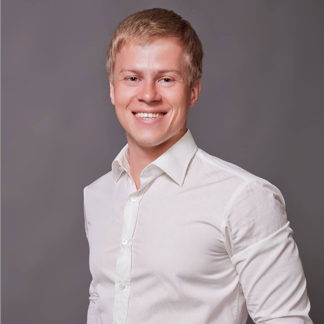
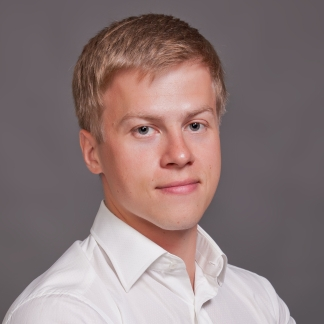
27.11.2017 nodeland.github.io

diff --git a/index.html b/index.html
@@ -332,35 +332,105 @@
 									<h5 class="team__name">Oleg Pensky</h5>
 									<p class="team__position">Chief scientific officer</p>
 								</div>
-								<div class="carousel-element">
-									<div class="carousel-element__photo">
+								<!-- <div class="carousel-element">
+									<div class="carousel-element__photo photo4">
 										<div class="team__social">
-											<a href="#" class="team__social_facebook"><i class="fa fa-facebook" aria-hidden="true"></i></a>
+											<a href="https://www.facebook.com/dmitriokulov" class="team__social_facebook" target="_blank"><i class="fa fa-facebook" aria-hidden="true"></i></a>
 											<a href="#" class="team__social_linkedin "><i class="fa fa-linkedin-square" aria-hidden="true"></i></a>
 										</div>
 									</div>
-									<h5 class="team__name">Daniil Morozov</h5>
-									<p class="team__position">Co-founder</p>
+									<h5 class="team__name">Dmitry Okulov</h5>
+									<p class="team__position">Chief technical officer</p>
+								</div> -->
+								<div class="carousel-element">
+									<div class="carousel-element__photo photo4">
+										<div class="team__social">
+											<a href="https://www.facebook.com/profile.php?id=100002008987607" class="team__social_facebook"  target="_blank"><i class="fa fa-facebook" aria-hidden="true"></i></a>
+											<a href="#" class="team__social_linkedin "><i class="fa fa-linkedin-square" aria-hidden="true"></i></a>
+										</div>
+									</div>
+									<h5 class="team__name">Irina Kotova</h5>
+									<p class="team__position">Financial planning and accounting expert</p>
 								</div>
 								<div class="carousel-element">
-									<div class="carousel-element__photo">
+									<div class="carousel-element__photo photo5">
 										<div class="team__social">
-											<a href="#" class="team__social_facebook"><i class="fa fa-facebook" aria-hidden="true"></i></a>
+											<a href="https://www.facebook.com/denis.konogorov.3" class="team__social_facebook" target="_blank"><i class="fa fa-facebook" aria-hidden="true"></i></a>
 											<a href="#" class="team__social_linkedin "><i class="fa fa-linkedin-square" aria-hidden="true"></i></a>
 										</div>
 									</div>
-									<h5 class="team__name">Daniil Morozov</h5>
-									<p class="team__position">Co-founder</p>
+									<h5 class="team__name">Denis Konogorov</h5>
+									<p class="team__position">Investments expert</p>
 								</div>
 								<div class="carousel-element">
-									<div class="carousel-element__photo">
+									<div class="carousel-element__photo photo6">
 										<div class="team__social">
-											<a href="#" class="team__social_facebook"><i class="fa fa-facebook" aria-hidden="true"></i></a>
-											<a href="#" class="team__social_linkedin "><i class="fa fa-linkedin-square" aria-hidden="true"></i></a>
+											<a href="https://www.facebook.com/profile.php?id=100010785395359" class="team__social_facebook" target="_blank"><i class="fa fa-facebook" aria-hidden="true"></i></a>
+											<a href="https://www.linkedin.com/in/вадим-котов-3ba5637b/" class="team__social_linkedin " target="_blank"><i class="fa fa-linkedin-square" aria-hidden="true"></i></a>
 										</div>
 									</div>
-									<h5 class="team__name">Daniil Morozov</h5>
-									<p class="team__position">Co-founder</p>
+									<h5 class="team__name">Vadim Kotov</h5>
+									<p class="team__position">Marketing expert</p>
+								</div>
+								<div class="carousel-element">
+									<div class="carousel-element__photo photo7">
+										<div class="team__social">
+											<a href="https://www.facebook.com/mike.pan.334" class="team__social_facebook" target="_blank"><i class="fa fa-facebook" aria-hidden="true"></i></a>
+											<a href="https://www.linkedin.com/in/mikhail-pan-a351284a/" class="team__social_linkedin " target="_blank"><i class="fa fa-linkedin-square" aria-hidden="true"></i></a>
+										</div>
+									</div>
+									<h5 class="team__name">Mikhail Pan</h5>
+									<p class="team__position">Sales. Asian markets. </p>
+								</div>
+								<div class="carousel-element">
+									<div class="carousel-element__photo photo8">
+										<div class="team__social">
+											<a href="https://www.facebook.com/julia.trubnikova.3" class="team__social_facebook" target="_blank"><i class="fa fa-facebook" aria-hidden="true"></i></a>
+											<a href="https://www.linkedin.com/in/yuliya-trubnikova-691009b" class="team__social_linkedin " target="_blank"><i class="fa fa-linkedin-square" aria-hidden="true"></i></a>
+										</div>
+									</div>
+									<h5 class="team__name">Yulia Trubnikova </h5>
+									<p class="team__position">Sales. European and US markets</p>
+								</div>
+								<div class="carousel-element">
+									<div class="carousel-element__photo photo9">
+										<div class="team__social">
+											<a href="#" class="team__social_facebook" target="_blank"><i class="fa fa-facebook" aria-hidden="true"></i></a>
+											<a href="https://www.linkedin.com/in/evgeny-petrikin-pmp-b2739116/" class="team__social_linkedin " target="_blank"><i class="fa fa-linkedin-square" aria-hidden="true"></i></a>
+										</div>
+									</div>
+									<h5 class="team__name">Evgeny Petrikin</h5>
+									<p class="team__position">Sales.  Middle Eastern markets</p>
+								</div>
+								<div class="carousel-element">
+									<div class="carousel-element__photo photo10">
+										<div class="team__social">
+											<a href="#" class="team__social_facebook" target="_blank"><i class="fa fa-facebook" aria-hidden="true"></i></a>
+											<a href="#" class="team__social_linkedin " target="_blank"><i class="fa fa-linkedin-square" aria-hidden="true"></i></a>
+										</div>
+									</div>
+									<h5 class="team__name">Ibtihaj Abrar</h5>
+									<p class="team__position">Product designer</p>
+								</div>
+								<div class="carousel-element">
+									<div class="carousel-element__photo photo11">
+										<div class="team__social">
+											<a href="https://www.facebook.com/george.mikaberydze" class="team__social_facebook" target="_blank"><i class="fa fa-facebook" aria-hidden="true"></i></a>
+											<a href="https://www.linkedin.com/in/georgy-mikaberydze-118b801/" class="team__social_linkedin " target="_blank"><i class="fa fa-linkedin-square" aria-hidden="true"></i></a>
+										</div>
+									</div>
+									<h5 class="team__name">George Mikaberydze</h5>
+									<p class="team__position">Advisor</p>
+								</div>
+								<div class="carousel-element">
+									<div class="carousel-element__photo photo12">
+										<div class="team__social">
+											<a href="https://www.facebook.com/george.erman" class="team__social_facebook" target="_blank"><i class="fa fa-facebook" aria-hidden="true"></i></a>
+											<a href="https://www.linkedin.com/in/ermangeorge/" class="team__social_linkedin " target="_blank"><i class="fa fa-linkedin-square" aria-hidden="true"></i></a>
+										</div>
+									</div>
+									<h5 class="team__name">Georgii Erman</h5>
+									<p class="team__position">Advisor</p>
 								</div>
 							</div>
 							<div class="carousel_nav">

diff --git a/css/main.css b/css/main.css
@@ -455,6 +455,33 @@ header {
 .photo3 {
 	background: url('../img/member3.jpg') no-repeat center top;
 }
+.photo4 {
+	background: url('../img/member4.jpg') no-repeat center top;
+}
+.photo5 {
+	background: url('../img/member5.jpg') no-repeat center top;
+}
+.photo6 {
+	background: url('../img/member6.jpg') no-repeat center top;
+}
+.photo7 {
+	background: url('../img/member7.jpg') no-repeat center top;
+}
+.photo8 {
+	background: url('../img/member8.jpg') no-repeat center top;
+}
+.photo9 {
+	background: url('../img/member9.jpg') no-repeat center top;
+}
+.photo10 {
+	background: url('../img/member10.jpg') no-repeat center top;
+}
+.photo11 {
+	background: url('../img/member11.jpg') no-repeat center top;
+}
+.photo12 {
+	background: url('../img/member12.jpg') no-repeat center top;
+}
 .carousel-element:hover .team__social {
 	display: block;
 	background: rgba(0,0,0,0.5);
